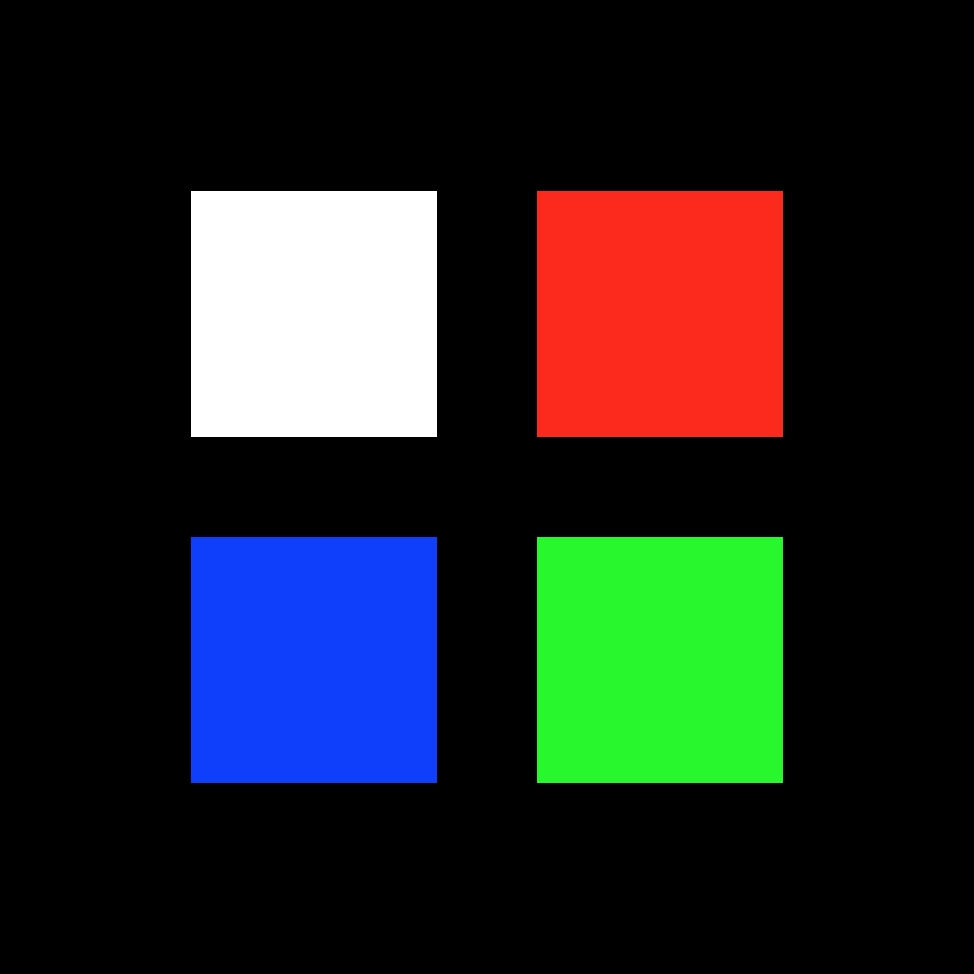
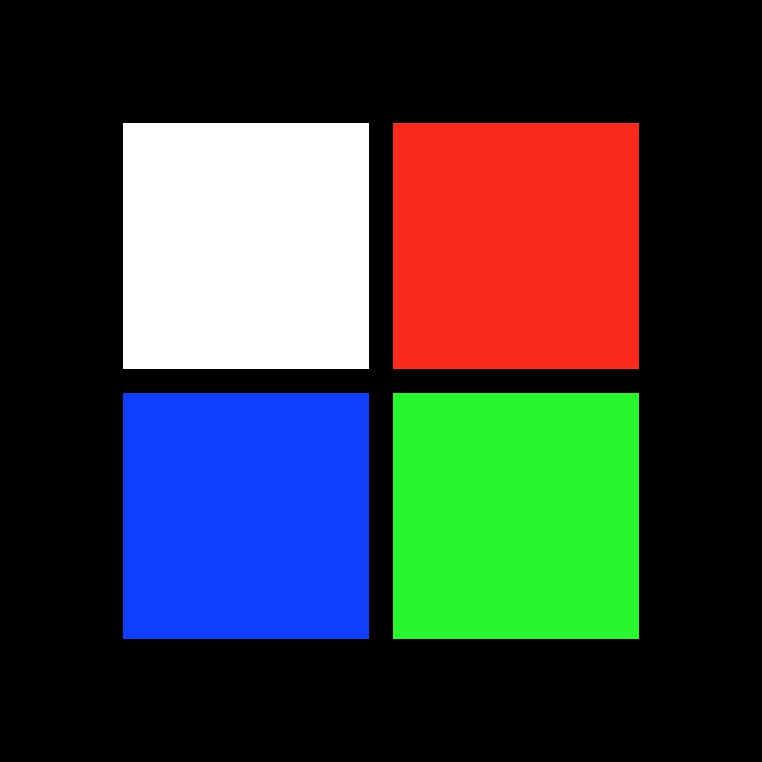
#1 added test to performance for image resizing; removed antialiasing

diff --git a/test.py b/test.py
@@ -7,21 +7,36 @@ from libs.pb_image import *
 
 imgPath = './dataTest'
 
-def test_combineNormal():
-	background = Image.open(imgPath + '/black.jpg')
-	image1 = Image.open(imgPath + '/white.jpg')
-	image2 = Image.open(imgPath + '/red.jpg')
-	image3 = Image.open(imgPath + '/blue.jpg')
-	image4 = Image.open(imgPath + '/green.jpg')
-	offset1 = 191
-	offset2 = 537
-	combined_image = pb_combineImages(background, image1, image2, image3, image4, offset1, offset2)
-	combined_image.save(imgPath + '/combined_testResult.jpg', 'JPEG', quality=100)
+background_small = Image.open(imgPath + '/black_762.jpg')
+background_big = Image.open(imgPath + '/black_big_7638.jpg')
+image1 = Image.open(imgPath + '/white.jpg')
+image2 = Image.open(imgPath + '/red.jpg')
+image3 = Image.open(imgPath + '/blue.jpg')
+image4 = Image.open(imgPath + '/green.jpg')
 
+def test_combineResize():
+	combined_image = pb_resizeAndMergeImages(background_small, 246, 246 / 10, 246 / 2, image1, image2, image3, image4)
+	combined_image.save(imgPath + '/combined_testResult_resized.jpg', 'JPEG', quality=100)
+	#print("total width: ", pb_getSquarePixelResolution(246, 246 / 10, 246 / 2))
+	#print("offset2: ", pb_getOffset2(246, 246 / 10, 246 / 2))
+
+def test_combineNoResize():
+	offset1 = 2464 / 2
+	offset2 = 3942
+	combined_image = pb_mergeImages(background_big, image1, image2, image3, image4, offset1, offset2)
+	combined_image.save(imgPath + '/combined_testResult_not_resized.jpg', 'JPEG', quality=100)
+	#print("total width: ", pb_getSquarePixelResolution(2464, 2464 / 10, 2464 / 2))
+	#print("offset2: ", pb_getOffset2(2464, 2464 / 10, 2464 / 2))
 
 class TestCombineImages(unittest.TestCase):
-	def test_combineNormal_timed(self):
-		self.assertLess(timeit.timeit(test_combineNormal, number=1), 8)
+	def test_combine_no_resize_timed(self):
+		time = timeit.timeit(test_combineNoResize, number=1)
+		print("time without resize: ", time)
+		self.assertLess(time, 8)
+	def test_combine_resize_timed(self):
+		time = timeit.timeit(test_combineResize, number=1)
+		print("time with resize: ", time)
+		self.assertLess(time, 8)
 
 if __name__ == '__main__':
 	unittest.main()

diff --git a/libs/pb_image.py b/libs/pb_image.py
@@ -1,12 +1,21 @@
 import PIL
 from PIL import Image
 
-def pb_combineImages(background, image1, image2, image3, image4, offset1, offset2):
+def pb_resizeAndMergeImages(background, sizeImages, spaceBetweenPhotos, spaceMargin, image1, image2, image3, image4):
         # Do the resize
-        image1 = image1.resize((246,246),PIL.Image.ANTIALIAS)
-        image2 = image2.resize((246,246),PIL.Image.ANTIALIAS)
-        image3 = image3.resize((246,246),PIL.Image.ANTIALIAS)
-        image4 = image4.resize((246,246),PIL.Image.ANTIALIAS)
+        targetSizeBackground = pb_getSquarePixelResolution(sizeImages, spaceBetweenPhotos, spaceMargin)
+        background = background.resize((targetSizeBackground,targetSizeBackground))
+        
+        targetSize = (sizeImages,sizeImages)
+        image1 = image1.resize(targetSize)
+        image2 = image2.resize(targetSize)
+        image3 = image3.resize(targetSize)
+        image4 = image4.resize(targetSize)
+
+        # Do the merging
+        return pb_mergeImages(background, image1, image2, image3, image4, spaceMargin, pb_getOffset2(sizeImages, spaceMargin, spaceBetweenPhotos))
+
+def pb_mergeImages(background, image1, image2, image3, image4, offset1, offset2):
         # Do the merging
 	background.paste(image1, (offset1,offset1))
         background.paste(image2, (offset2,offset1))
@@ -14,3 +23,8 @@ def pb_combineImages(background, image1, image2, image3, image4, offset1, offset
         background.paste(image4, (offset2,offset2))
 	return background
 
+def pb_getSquarePixelResolution(imagesToCopyResolution, spaceBetweenPhotos, spaceMargin):
+        return imagesToCopyResolution * 2 + spaceBetweenPhotos + spaceMargin * 2
+
+def pb_getOffset2(imagesToCopyResolution, spaceBetweenPhotos, spaceMargin):
+        return spaceMargin + imagesToCopyResolution + spaceBetweenPhotos

diff --git a/photobooth.py b/photobooth.py
@@ -156,9 +156,9 @@ def combineImages():
 	image2 = Image.open(imgPath + '/image2.jpg')
 	image3 = Image.open(imgPath + '/image3.jpg')
 	image4 = Image.open(imgPath + '/image4.jpg')
-	offset1 = 179
-	offset2 = 519
-	combined_image = pb_combineImages(background, image1, image2, image3, image4, offset1, offset2)
+	offset1 = 246 / 2
+	offset2 = 393
+	combined_image = pb_resizeAndMergeImages(background, 246, 246 / 10, 246 / 2, image1, image2, image3, image4)
 	combined_image.save(imgPath + '/combined.jpg', 'JPEG', quality=100)
 
 
